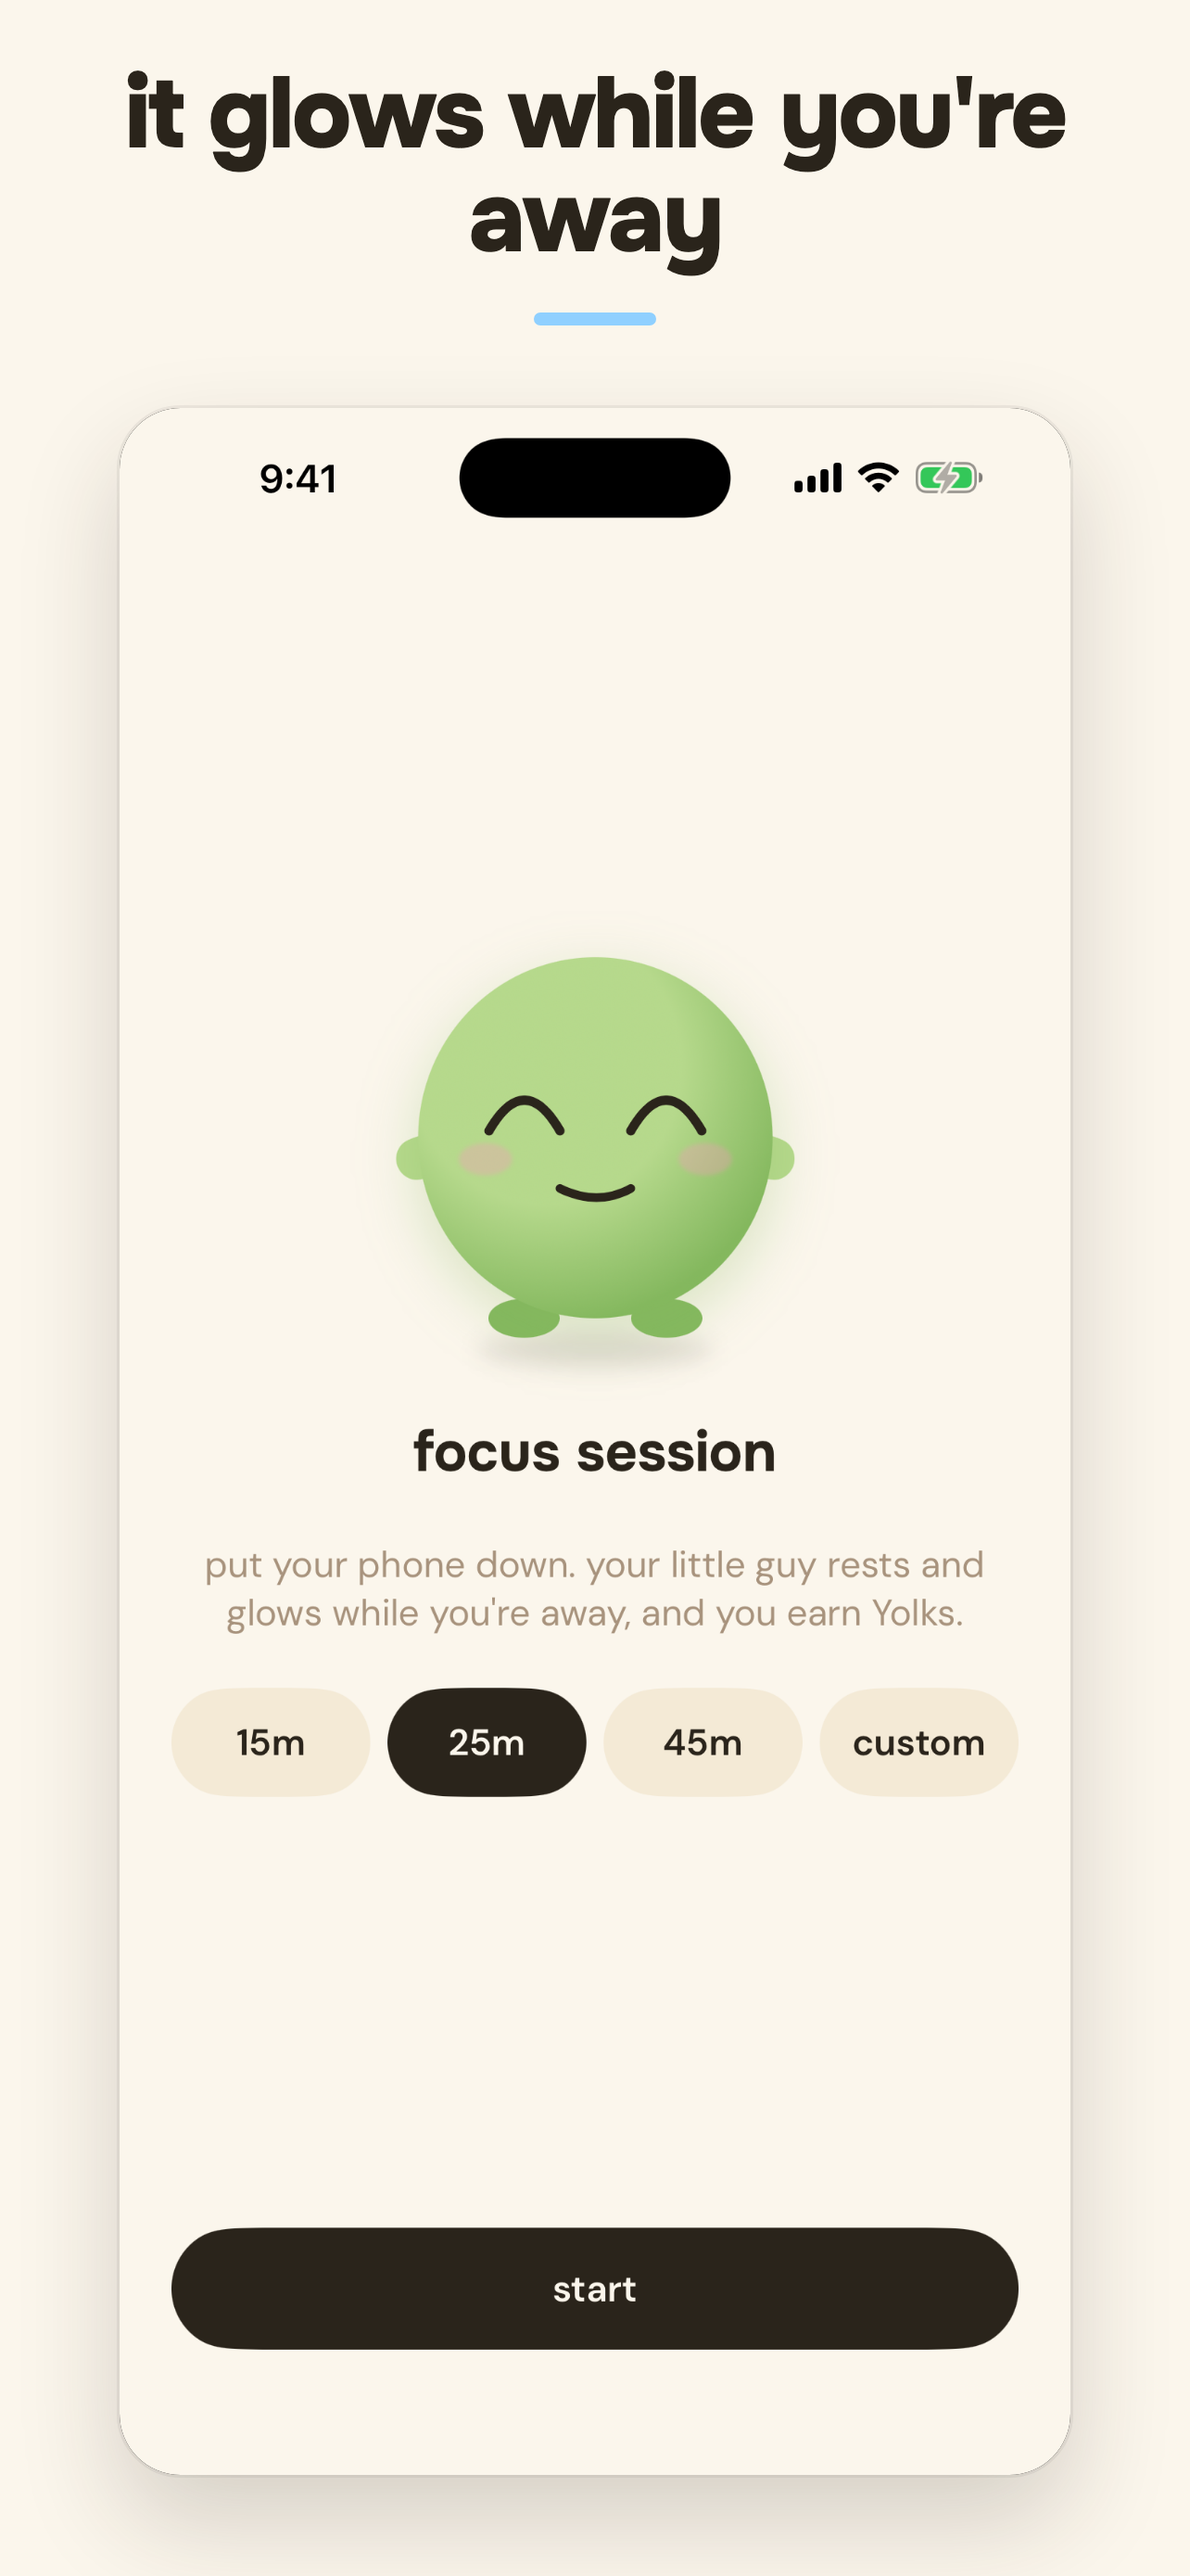
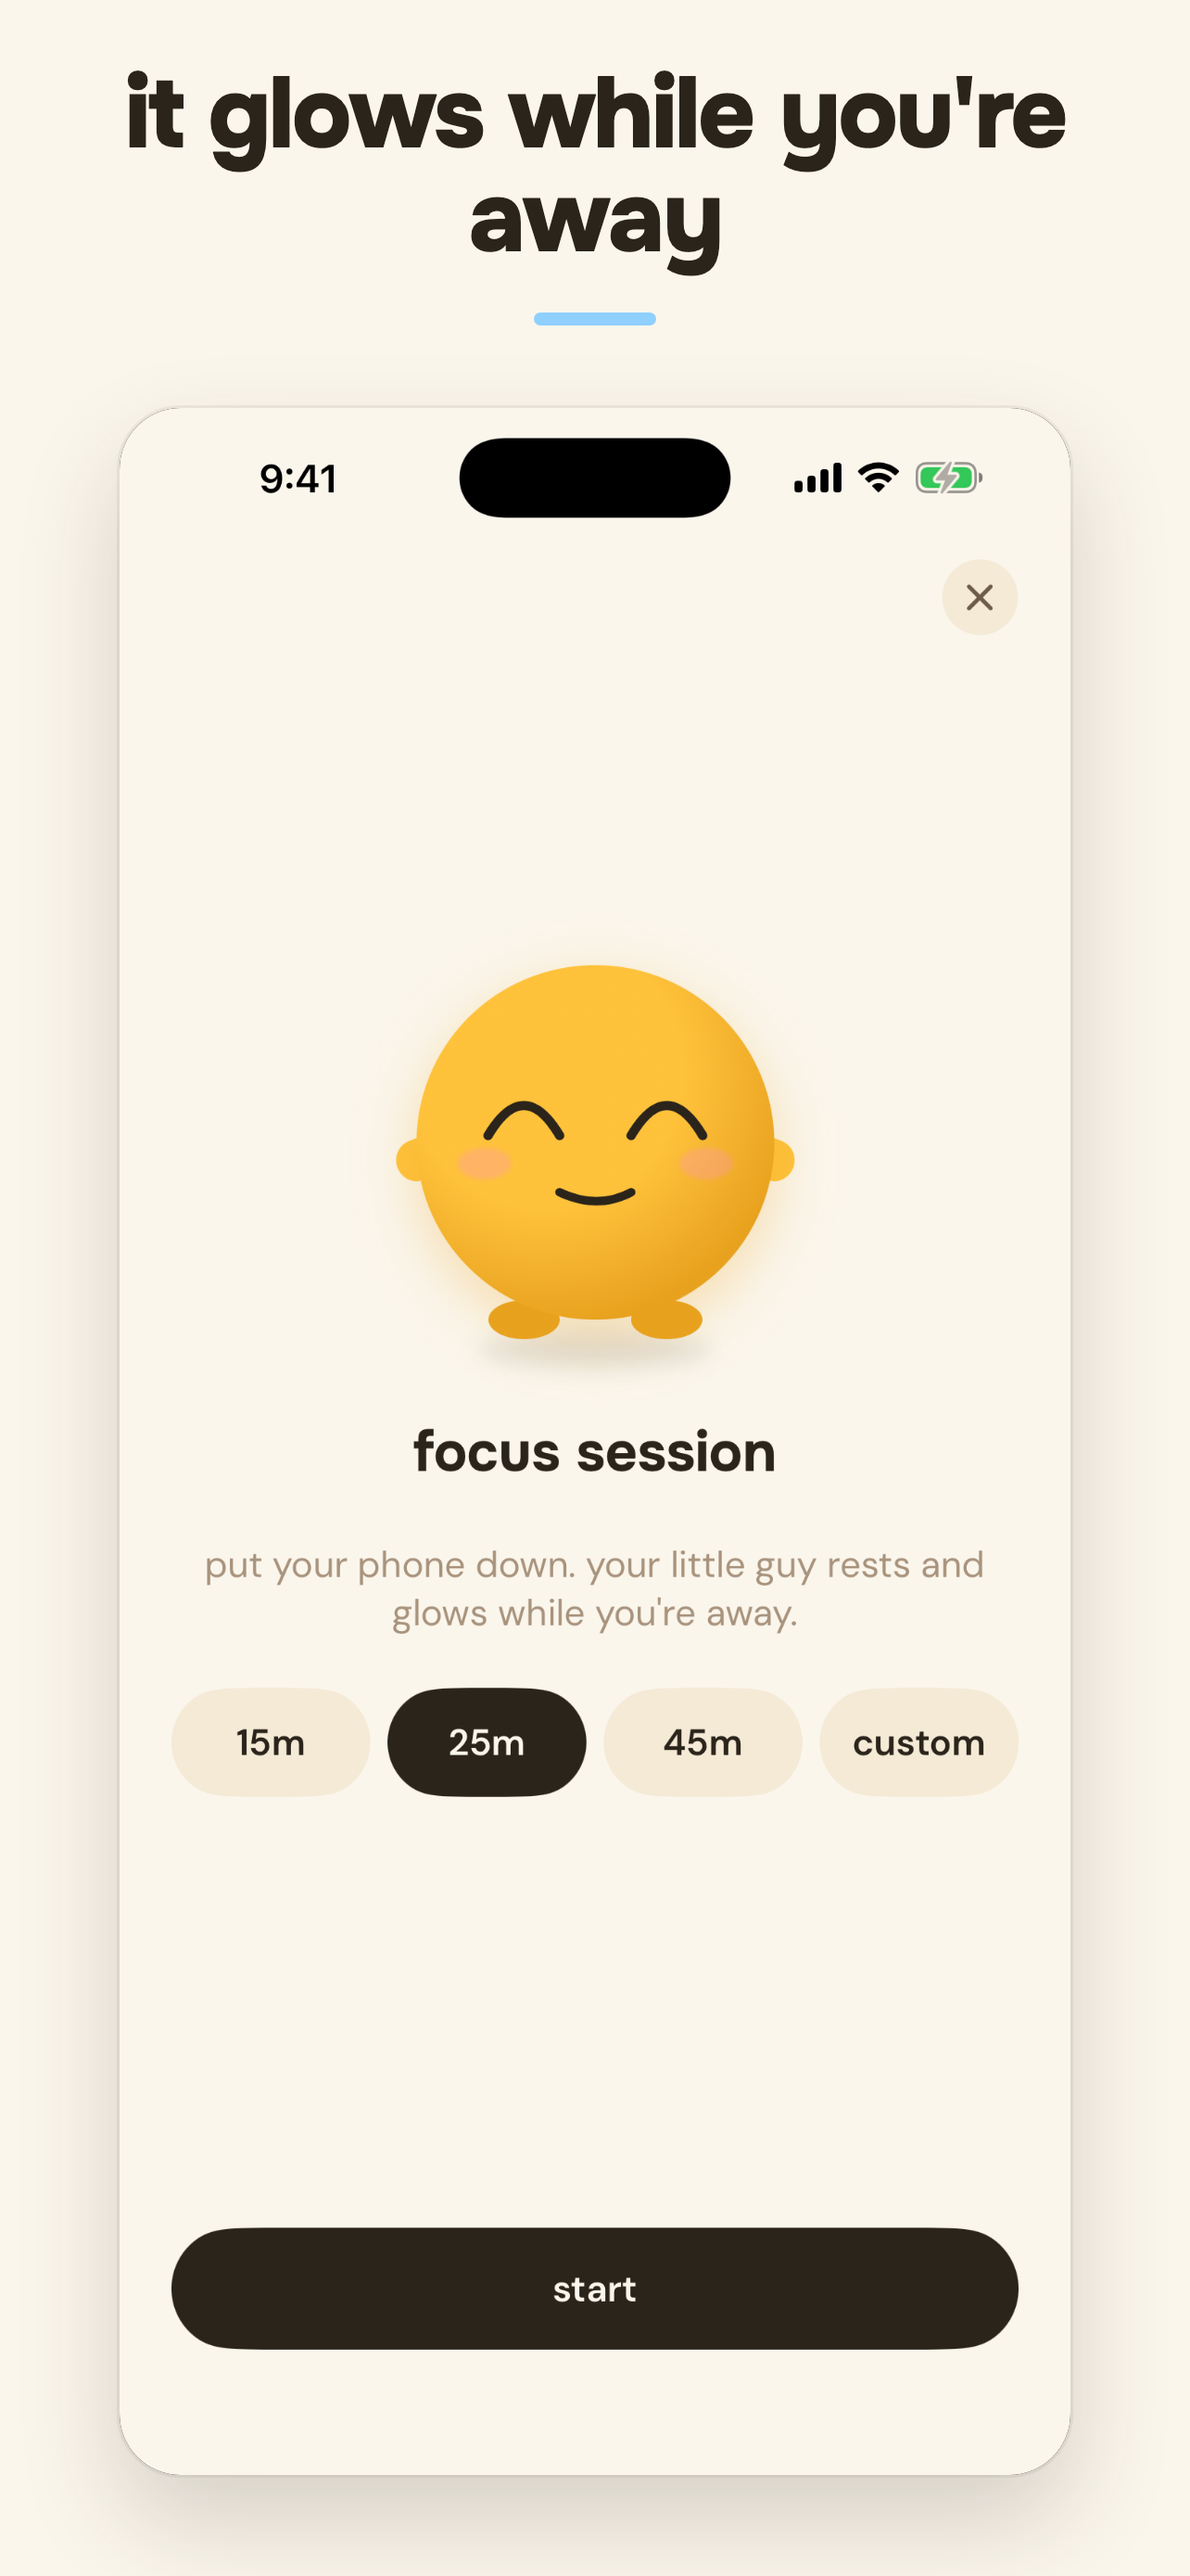
Regenerate the App Store screenshots from the current build
The existing set was captured 2026-08-10, before the drawn glyph pass, the
mesh onboarding backdrop, the rebuilt hatch ceremony and the customize
redesign. They showed an app that no longer exists, which is a rejection risk
as much as a marketing one - screenshots have to match what review installs.

All eight raws recaptured, plus two changes to the set itself:

  * 08 was the postcard inbox in its EMPTY state - "no notes yet". An empty
    inbox sells nothing. Replaced with the card detail screen, which is the
    most demo-able thing in the app and was not represented at all.
  * 03 tried to show the grow-by-living card on Home, which sits below the
    fold; the capture came back identical to the hero shot. Swapped to the
    health priming screen, which states the same idea more directly and
    carries the privacy line with it.

The card shot is deliberately the real CardDetailView reached by tapping a Dex
cell, NOT the YOLK_HOLO dev seam - the seam renders rarity pickers and
face-down/scratch toggles that no user can reach, and shipping that as a
screenshot would show UI that does not exist.

Capturing it also verified the Dex tap-through end to end for the first time.
It had been built but never confirmed; an earlier attempt failed because the
simulator had wandered into another app and the taps never landed on Yolkling.

Also fixed the capture commands in AppStore/README.md, which still referenced
the old com.Sankritya.Yolkling bundle id and would silently fail.

diff --git a/AppStore/README.md b/AppStore/README.md
@@ -35,8 +35,8 @@ xcrun simctl boot "$DEVICE"
 APP=$(find ~/Library/Developer/Xcode/DerivedData/Yolkling-*/Build/Products/Debug-iphonesimulator -name "Yolkling.app" | head -1)
 xcrun simctl install "$DEVICE" "$APP"
 for i in 0 1 2 3 4; do
-  xcrun simctl terminate "$DEVICE" com.Sankritya.Yolkling 2>/dev/null
-  SIMCTL_CHILD_YOLK_VIBE=$i xcrun simctl launch "$DEVICE" com.Sankritya.Yolkling
+  xcrun simctl terminate "$DEVICE" com.yolkling.ios 2>/dev/null
+  SIMCTL_CHILD_YOLK_VIBE=$i xcrun simctl launch "$DEVICE" com.yolkling.ios
   sleep 3
   xcrun simctl io "$DEVICE" screenshot AppStore/screenshots/home-vibe-$i.png
 done
@@ -53,7 +53,7 @@ verified character counts). Quick reference only:
 - Keywords (no spaces): `virtualpet,creature,cozy,selfcare,tamagotchi,wellbeing,companion,habit,collect,focus,mood,pet,egg` (97/100)
 - Category: **Lifestyle** (primary), **Health & Fitness** (secondary)
 - Support / Marketing URL: https://yolkling.com · Privacy: https://yolkling.com/privacy
-- Age rating: 4+ · Bundle id: com.Sankritya.Yolkling
+- Age rating: 4+ · Bundle id: com.yolkling.ios
 - Full description, What's New, App Review notes, and App Privacy answers: see the
   listing doc.
 
